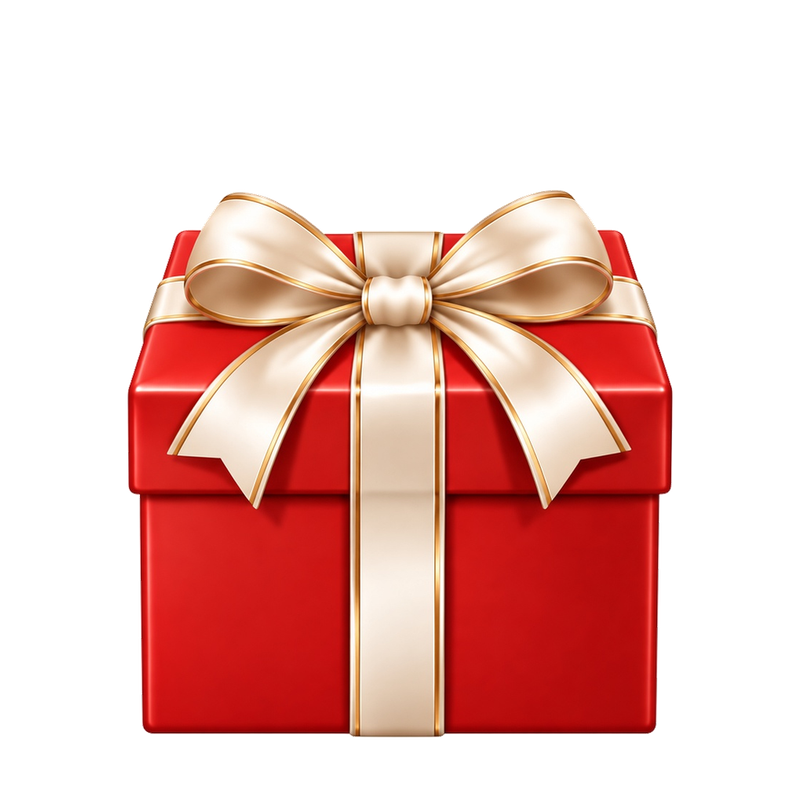
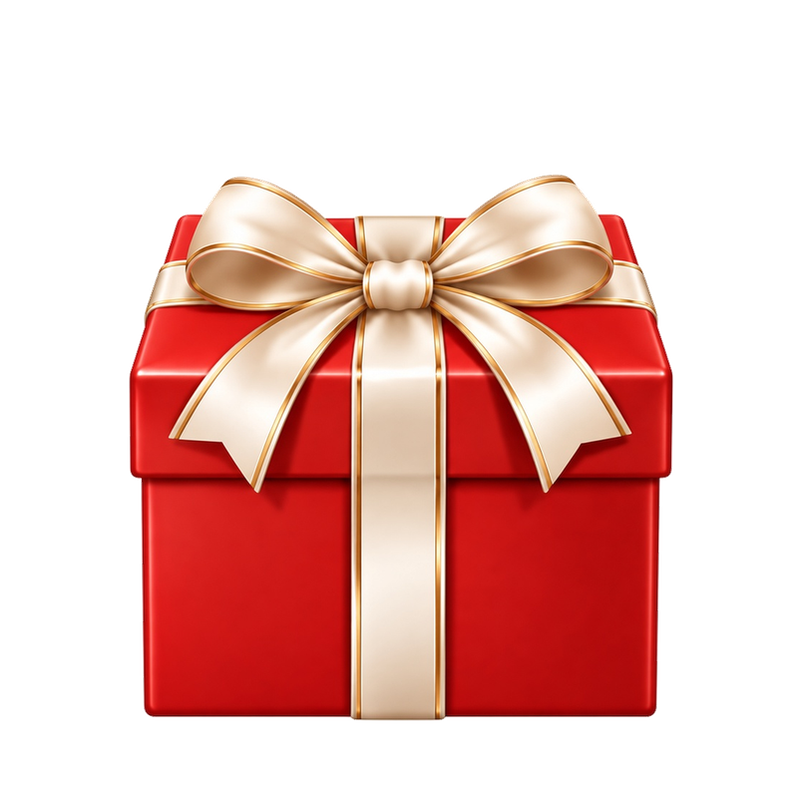
Align the four gift box bodies to the same size.

Changed region(s): [[0.1562, 0.2188, 0.8438, 0.9375]]

diff --git a/index.html b/index.html
@@ -13,7 +13,7 @@
   <title>kitegamemode.kr</title>
   <link rel="canonical" href="https://kitegamemode.kr/">
   <link rel="stylesheet" href="https://cdn.jsdelivr.net/gh/orioncactus/pretendard@v1.3.9/dist/web/static/pretendard.min.css">
-  <link rel="stylesheet" href="style.css?v=105">
+  <link rel="stylesheet" href="style.css?v=106">
 </head>
 <body>
   <main class="app">
@@ -63,14 +63,14 @@
         <div class="joke-drum__kit">
           <span class="joke-drum__stick is-left"></span>
           <span class="joke-drum__stick is-right"></span>
-          <img class="joke-drum__img" src="assets/snare.png?v=105" alt="">
+          <img class="joke-drum__img" src="assets/snare.png?v=106" alt="">
         </div>
         <p class="joke-suspense" id="jokeSuspense"></p>
       </div>
       <div class="joke-party" id="jokeParty" hidden aria-hidden="true"></div>
       <div class="joke-gift-fly" id="jokeGiftFly" hidden>
         <div class="joke-gift-wiggle">
-        <img class="joke-gift-photo" id="jokeGiftPhoto" src="assets/gift-4.png?v=105" alt="">
+        <img class="joke-gift-photo" id="jokeGiftPhoto" src="assets/gift-4.png?v=106" alt="">
         <div class="gift" id="jokeGift" data-step="0" data-layer="0">
           <div class="gift-inner"></div>
           <div class="gift-paper">
@@ -113,7 +113,7 @@
   </main>
   <script src="https://unpkg.com/peerjs@1.5.4/dist/peerjs.min.js"></script>
   <script src="https://unpkg.com/mqtt@5.10.4/dist/mqtt.min.js"></script>
-  <script src="accounts.js?v=105"></script>
-  <script src="script.js?v=105"></script>
+  <script src="accounts.js?v=106"></script>
+  <script src="script.js?v=106"></script>
 </body>
 </html>

diff --git a/style.css b/style.css
@@ -1248,7 +1248,7 @@ body.is-admin .app {
   width: 180px;
   height: 180px;
   object-fit: contain;
-  object-position: center 78%;
+  object-position: center bottom;
   pointer-events: none;
   filter: drop-shadow(0 10px 14px rgba(70, 52, 28, 0.16));
 }

diff --git a/script.js b/script.js
@@ -1009,7 +1009,7 @@ function setJokeGiftFrame(frame) {
     return;
   }
 
-  const src = `assets/gift-${frame}.png?v=105`;
+  const src = `assets/gift-${frame}.png?v=106`;
   if (photo.getAttribute("src") !== src) {
     photo.src = src;
   }
